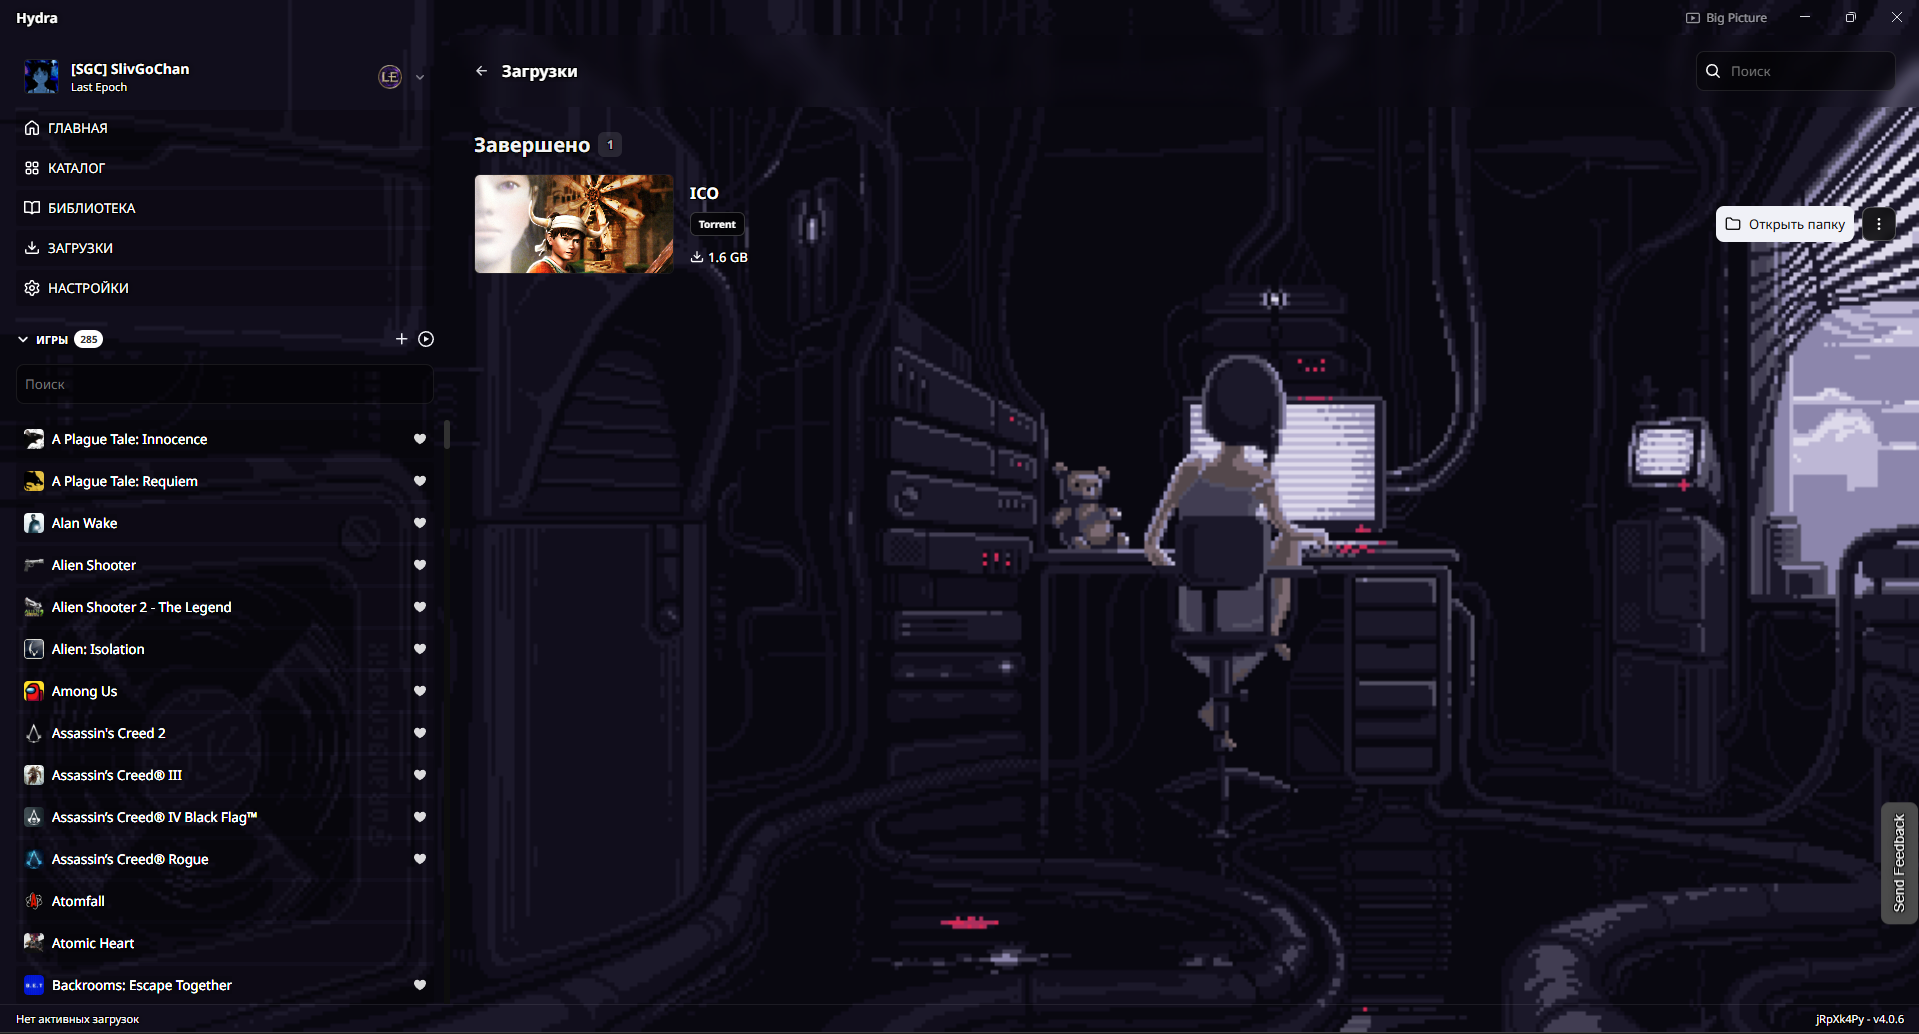
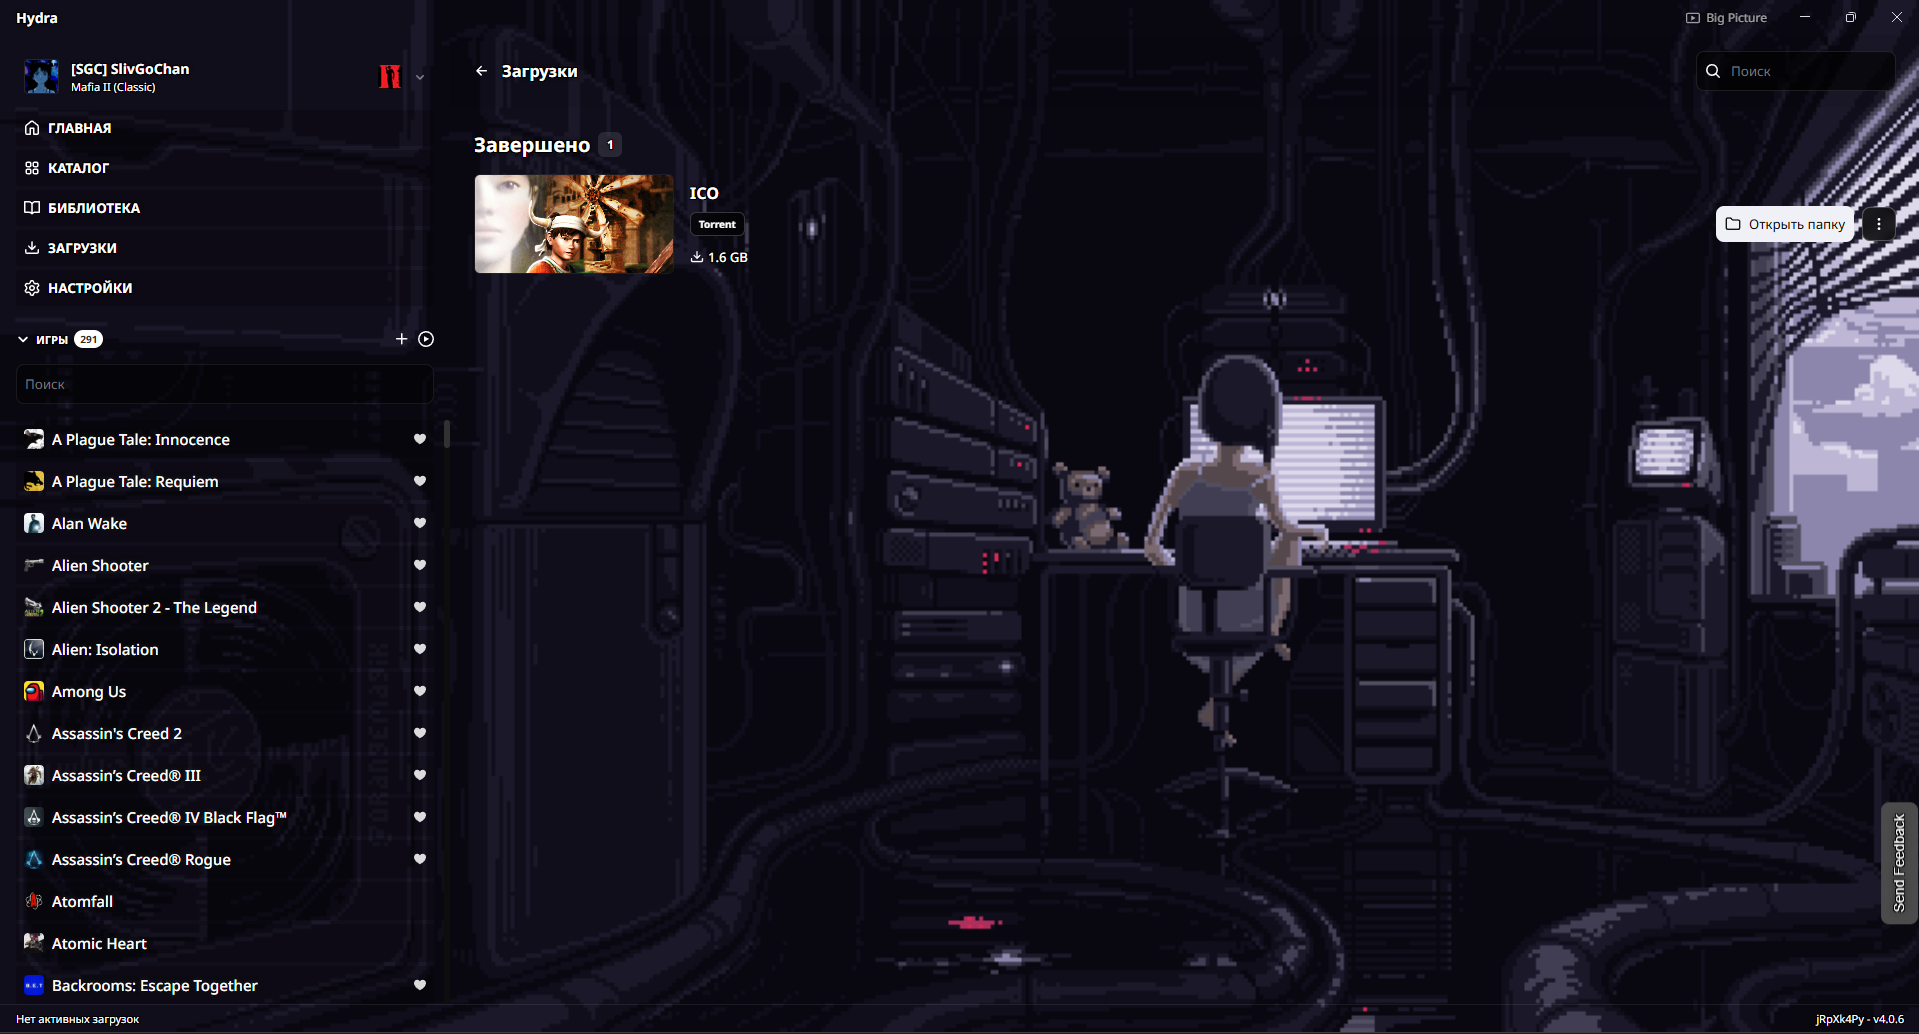
Solution (#727)

diff --git a/themes/LainChan-BQ4D378Q/theme.css b/themes/LainChan-BQ4D378Q/theme.css
@@ -33,13 +33,13 @@ body {
 
 /* --- Контрастный белый текст с тенью по всему приложению --- */
 p, span, h1, h2, h3, h4, h5, h6, strong, small, li, label, button {
-    color: #ffffff;
+    color: #ffffff !important;
     text-shadow:
         -1px -1px 0 #000,
          1px -1px 0 #000,
         -1px  1px 0 #000,
          1px  1px 0 #000,
-         0 0 8px rgba(0, 0, 0, 0.9);
+         0 0 8px rgba(0, 0, 0, 0.9) !important;
 }
 
 /* Счётчики на белом фоне — оставляем тёмный текст без тени */
@@ -60,6 +60,14 @@ p, span, h1, h2, h3, h4, h5, h6, strong, small, li, label, button {
     background-color: rgba(0, 0, 0, 0.75) !important;
     color: #ffffff !important;
     backdrop-filter: blur(8px);
+}
+
+/* Кнопка "Пересканировать библиотеку" — такой же стиль, как у облачного сохранения */
+.emulator-detail__hero-actions .button--primary {
+    background-color: rgba(0, 0, 0, 0.75) !important;
+    color: #ffffff !important;
+    backdrop-filter: blur(8px);
+    text-shadow: none !important;
 }
 
 /* --- Background Image --- */
@@ -102,20 +110,27 @@ p, span, h1, h2, h3, h4, h5, h6, strong, small, li, label, button {
     background-color: transparent !important;
 }
 
+/* Бейдж "Hydra Cloud" рядом с логотипом — на случай неточного попадания в класс */
+.title-bar [class*="cloud"],
+[class*="title-bar"] [class*="cloud"] {
+    color: #16a34a !important;
+    opacity: 1 !important;
+    text-shadow: 1px 1px 2px rgba(0, 0, 0, 0.8) !important;
+}
+
 /* --- Header --- */
 .header {
     color: rgb(211, 210, 210);
     text-shadow: 1px 1px 1px #000000;
     background: transparent;
     background-color: rgba(0, 0, 0, 0.08);
-    backdrop-filter: blur(8px);
     border-bottom: 1px solid rgba(255, 255, 255, 0.06);
 }
 
 .header__search {
     color: #ffffff;
     background: transparent;
-    background-color: rgba(0, 0, 0, 0.44);
+    background-color: rgba(0, 0, 0, 0.6);
     border: 1px solid rgba(255, 255, 255, 0.1);
     border-radius: 8px;
     transition: all 0.25s ease;
@@ -141,7 +156,8 @@ p, span, h1, h2, h3, h4, h5, h6, strong, small, li, label, button {
 .sidebar__menu-item, .sidebar__menu-item-button, .sidebar__menu-item-button-label {
     text-transform: uppercase;
     color: #ffffffff;
-    text-shadow: 0px 0px 0px #ffffffff;
+    font-weight: 600;
+    text-shadow: 0 0 6px rgba(255, 255, 255, 0.35), 1px 1px 2px rgba(0, 0, 0, 0.8);
     background-color: #00000020;
 }
 .sidebar__menu-item:hover,
@@ -157,17 +173,22 @@ p, span, h1, h2, h3, h4, h5, h6, strong, small, li, label, button {
     color: #ffffff !important;
 }
 
-/* Названия игр в сайдбаре — обычным шрифтом, без капса */
-.sidebar__section--games .sidebar__menu-item,
-.sidebar__section--games .sidebar__menu-item-button,
-.sidebar__section--games .sidebar__menu-item-button-label {
-    text-transform: none;
+/* Названия игр в сайдбаре — обычным шрифтом, без капса, лёгкая тень для контраста */
+.sidebar__menu-item:has(.sidebar__game-icon) .sidebar__menu-item-button-label,
+.sidebar__menu-item-button:has(.sidebar__game-icon) {
+    text-transform: none !important;
+    font-weight: 500 !important;
+    font-size: 15px !important;
+    color: #ffffff !important;
+    text-shadow: 1px 1px 3px rgba(0, 0, 0, 0.9), 0 0 4px rgba(255, 255, 255, 0.15) !important;
 }
 
 .sidebar-section {
     border-top: 0.5px solid rgba(255,255,255,0.07);
     padding-top: 6px;
     margin-top: 6px;
+    background-color: rgba(0, 0, 0, 0.72);
+    backdrop-filter: blur(8px);
 }
 .sidebar-section__header {
     font-size: 10px;
@@ -364,17 +385,23 @@ p, span, h1, h2, h3, h4, h5, h6, strong, small, li, label, button {
 }
 
 .profile-section {
+    background-color: rgba(0, 0, 0, 0.5);
+    backdrop-filter: blur(8px);
+}
+
+.profile-section__content {
+    background: transparent;
+    backdrop-filter: blur(8px);
+}
+
+.user-stats__box {
     background: transparent;
     backdrop-filter: blur(8px);
 }
 
 .profile-section__header {
-    transition: backdrop-filter 0.25s ease, background-color 0.25s ease;
-}
-
-.profile-section__header:hover {
+    background-color: rgba(0, 0, 0, 0.5);
     backdrop-filter: blur(8px);
-    background-color: rgba(0, 0, 0, 0.5) !important;
 }
 
 /* --- Settings Page --- */
@@ -461,17 +488,43 @@ p, span, h1, h2, h3, h4, h5, h6, strong, small, li, label, button {
 .checkbox-field__input,
 input[type="checkbox"],
 input[type="radio"] {
-    background: transparent;
-    backdrop-filter: blur(8px);
     accent-color: #ffffff;
     cursor: pointer;
     border: 1px solid #ffffff;
+}
+
+.checkbox-field__icon {
+    filter: invert(1) brightness(2);
+    opacity: 1 !important;
 }
 
 .checkbox-field__label,
 label {
     color: rgba(255, 255, 255, 0.9) !important;
     cursor: pointer !important;
+}
+
+/* --- Вкладки эмулятора (Эмулятор / Папки ROM / Резервные копии) --- */
+.emulator-detail__tabs {
+    background-color: rgba(0, 0, 0, 0.55);
+    border-radius: 6px;
+}
+
+[class*="emulator-detail__tab"] {
+    color: #ffffff !important;
+    opacity: 1 !important;
+    text-shadow: 1px 1px 2px rgba(0, 0, 0, 0.8) !important;
+}
+
+[class*="emulator-detail__tab"][aria-selected="true"] {
+    font-weight: 600 !important;
+    background-color: rgba(255, 255, 255, 0.1) !important;
+    border-radius: 4px;
+}
+
+.emulator-detail p,
+.emulator-detail small {
+    color: #F0F1F7 !important;
 }
 
 /* --- Select Dropdowns --- */
